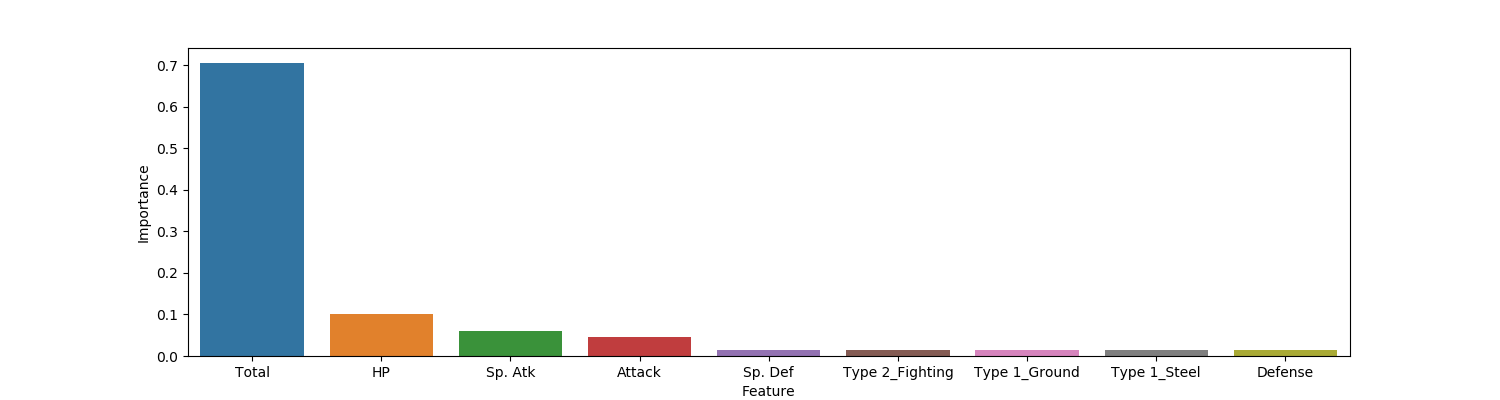
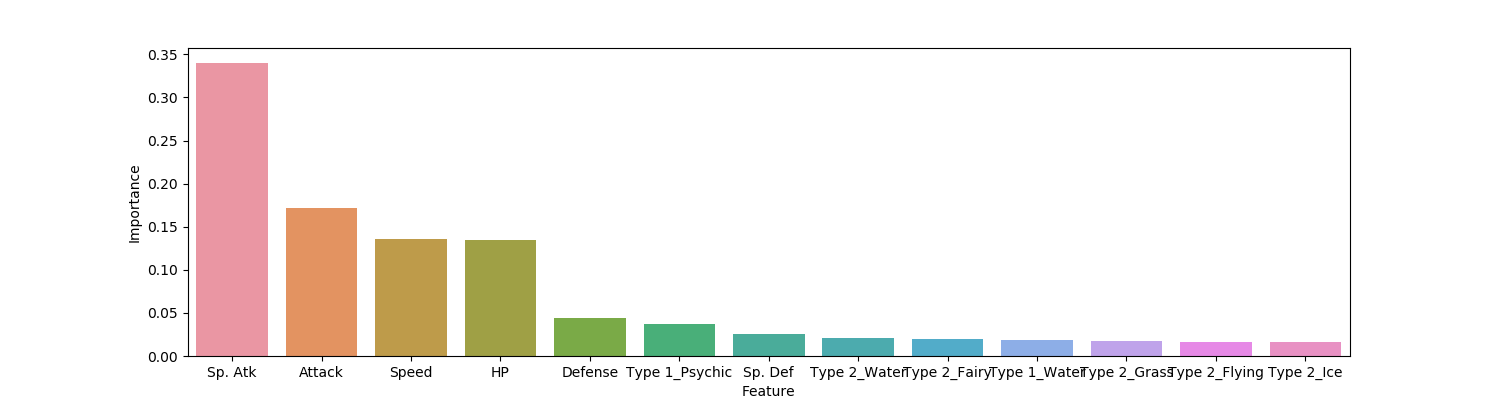
Updates to pokemonAnalysis and file structure

Changed region(s): [[0.0613, 0.12, 0.92, 0.96]]

diff --git a/src/3_pokemonAnalysis.py b/src/3_pokemonAnalysis.py
@@ -1,0 +1,82 @@
+import numpy as np
+import pandas as pd
+import seaborn as sns
+import matplotlib.pyplot as plt
+import argparse
+
+from sklearn.tree import DecisionTreeClassifier, export_graphviz
+from sklearn.model_selection import train_test_split
+from sklearn.model_selection import cross_val_score
+
+def get_args():
+    parser = argparse.ArgumentParser()
+    parser.add_argument('file_path', help='Data file path')
+    parser.add_argument('output_file_path', help='Output file path')
+    args = parser.parse_args()
+
+    return args.file_path, args.output_file_path
+
+def main():
+    # Set random state
+    rstate = 14675
+
+    # Get command line arguments
+    pokemon_data_file_path, pokemon_data_output_file_path = get_args()
+
+    # Load data
+    pokemon_data = pd.read_csv(pokemon_data_file_path)
+    pokemon_data = pd.get_dummies(pokemon_data, columns=["Type 1", "Type 2"])
+
+    # Separate features and target
+    features = pokemon_data.loc[:, "Total":"Type 2_Water"]
+    features = features.drop(["Legendary", "Generation", "Total"], axis=1);
+
+    target = pokemon_data.loc[:, ["Legendary"]]
+
+    # Split data into test and train
+    X_train, X_test, y_train, y_test = train_test_split(features, target, test_size=0.25, random_state=rstate)
+
+    # Calculate best hyper parameter (max_depth) for DecisionTreeClassifier
+    depths = []
+    scores_train = []
+    scores_test = []
+
+    for depth in range(1, 25):
+        tree = DecisionTreeClassifier(max_depth = depth, random_state=rstate)
+        tree.fit(X_train, y_train)
+
+        depths.append(depth)
+        scores_train.append(np.mean(cross_val_score(tree, X_train, y_train, cv=10)))
+        scores_test.append(np.mean(cross_val_score(tree, X_test, y_test, cv=10)))
+
+    depth_score_test_df = pd.DataFrame(scores_test, index=depths, columns=['score'])
+
+    # Read depth of highest score
+    depth_of_max_test = depth_score_test_df.loc[depth_score_test_df['score'].idxmax()].name
+
+    #print(depth_of_max_test)
+    #print(depth_score_test_df.iloc[[depth_of_max_test]])
+
+    # Fit with best hyper parameters
+    bestTree = DecisionTreeClassifier(max_depth = depth_of_max_test, random_state=42)
+    bestTree.fit(X_train, y_train)
+    print("Testing score:\n", depth_score_test_df.iloc[[depth_of_max_test]])
+
+    # Calculate most important features
+    feature_importances = bestTree.feature_importances_
+    importance_df = pd.DataFrame({"Feature": features.columns.values, "Importance": feature_importances})
+    importance_df = importance_df.query("Importance > 0.01")
+    importance_df = importance_df.sort_values(by="Importance", ascending=False)
+
+    importance_df.to_csv(pokemon_data_output_file_path + ".csv")
+
+    # Save importance bar graph
+    plt.rcParams["figure.figsize"] = (15, 4)
+    plt.rcParams["xtick.labelsize"] = 10
+    importance_plot = sns.barplot(data=importance_df, x="Feature", y="Importance")
+    importance_plot_fig = importance_plot.get_figure()
+    importance_plot_fig.savefig(pokemon_data_output_file_path + "_plot.png")
+
+
+if __name__ == "__main__":
+    main()
